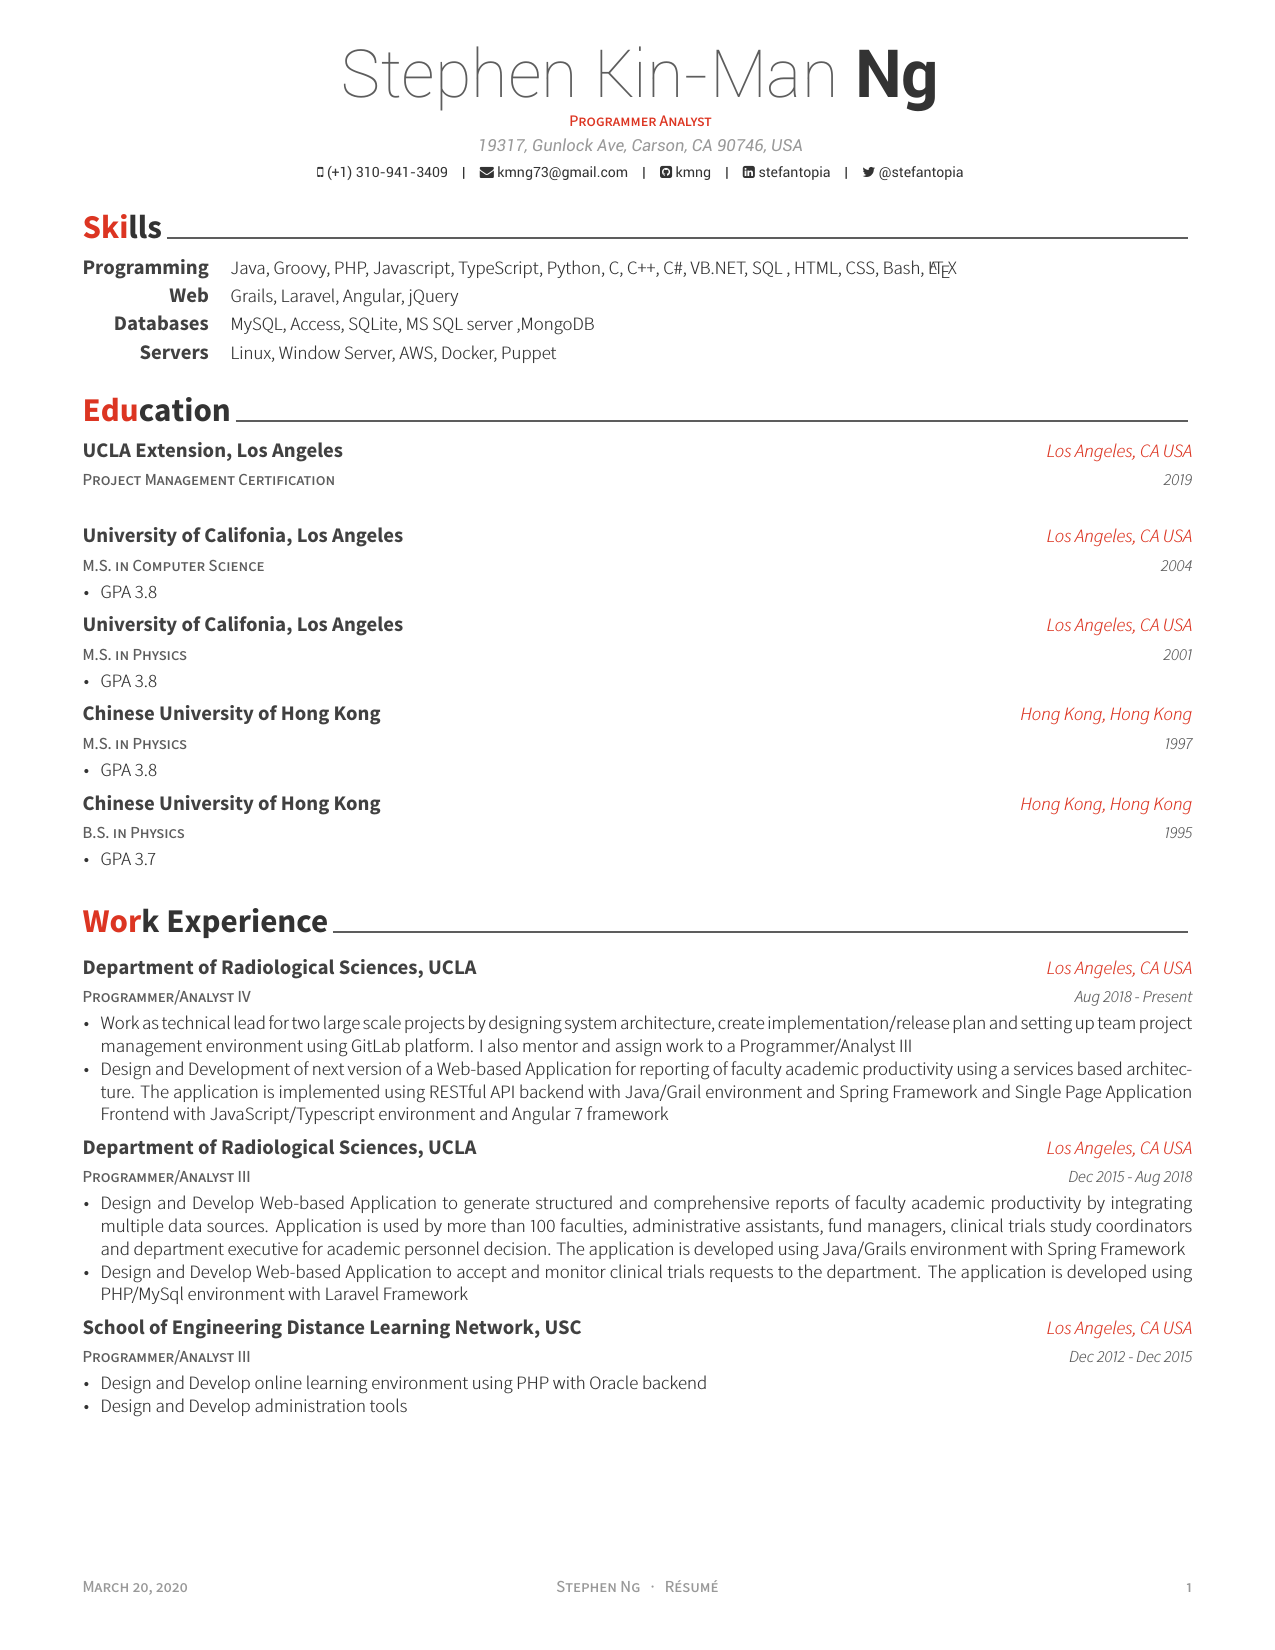
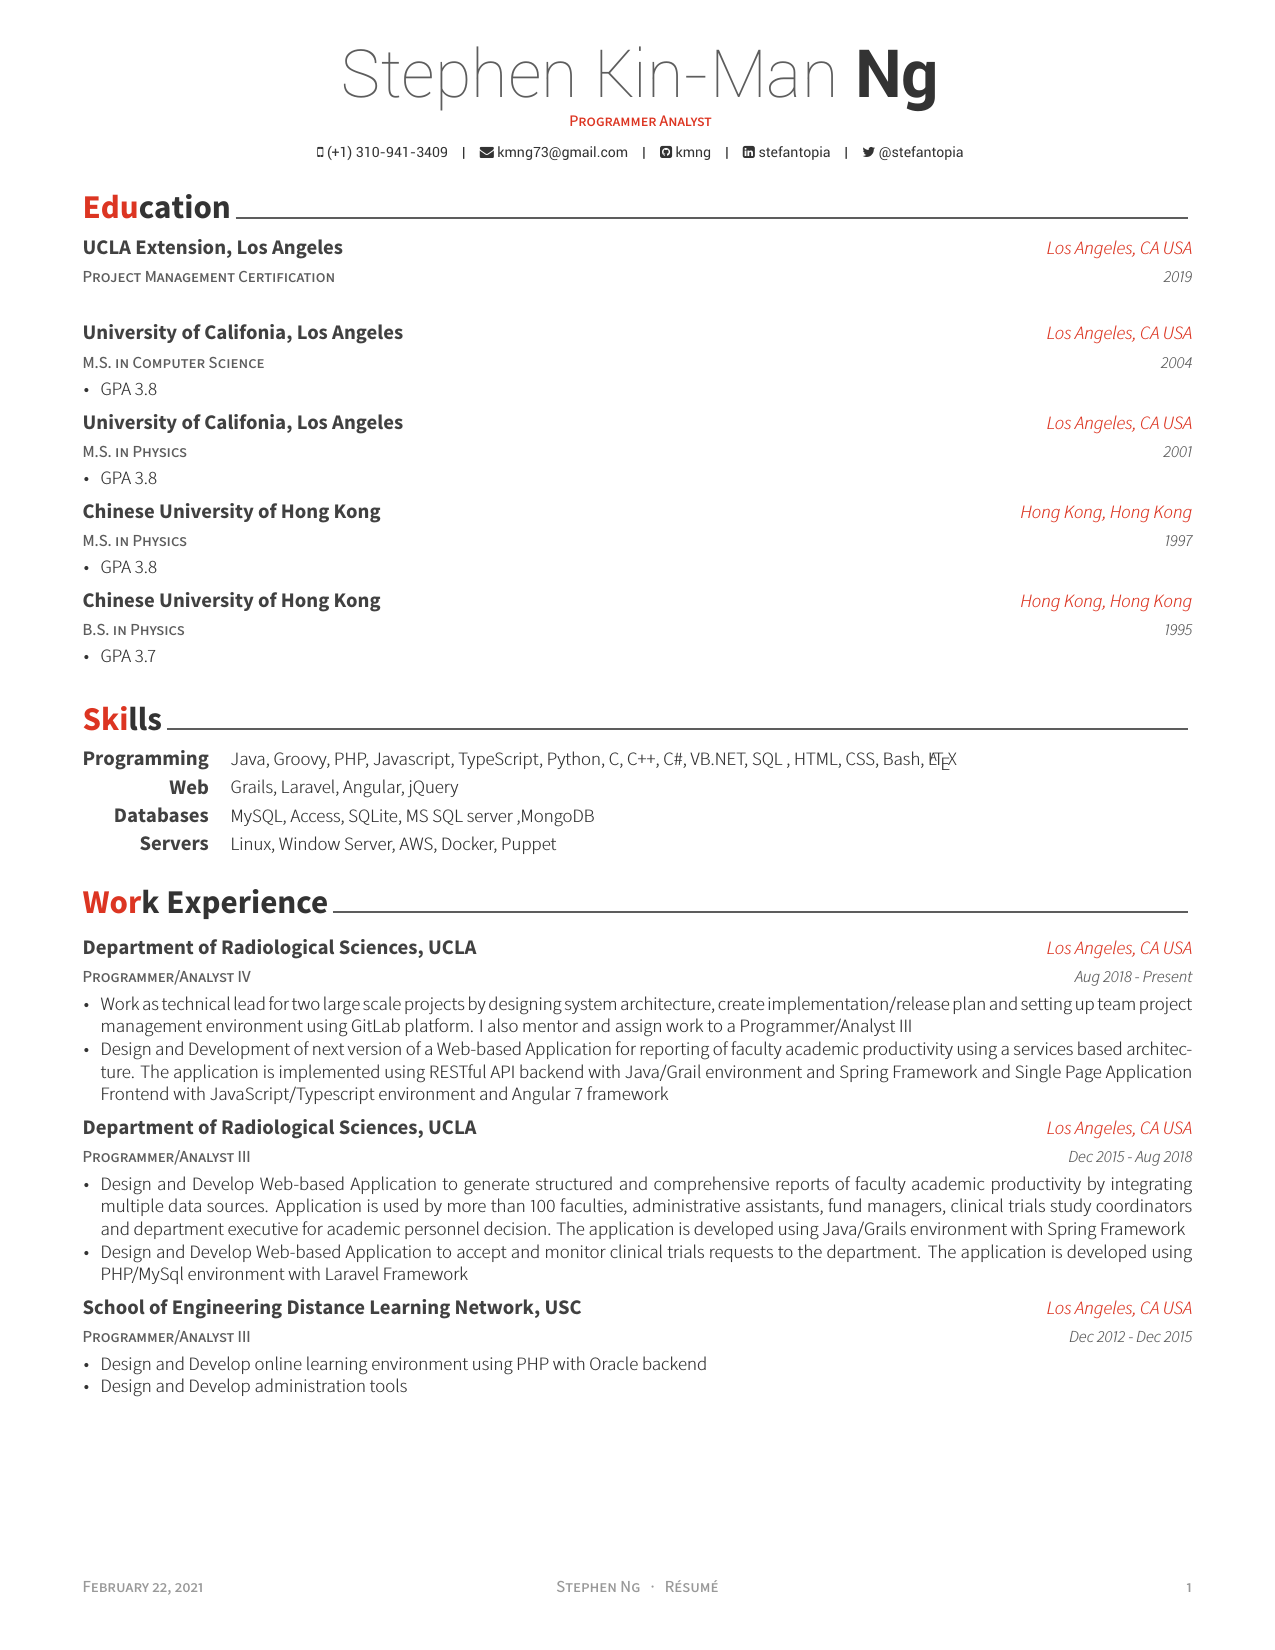
update resume to remove address and switch order

diff --git a/myresume/resume.tex b/myresume/resume.tex
@@ -55,7 +55,7 @@
 % \photo[rectangle,edge,right]{./examples/profile}
 \name{Stephen Kin-Man}{Ng}
 \position{Programmer Analyst}
-\address{19317, Gunlock Ave, Carson, CA 90746, USA}
+% \address{19317, Gunlock Ave, Carson, CA 90746, USA}
 
 \mobile{(+1) 310-941-3409}
 \email{kmng73@gmail.com}
@@ -91,8 +91,9 @@
 %	CV/RESUME CONTENT
 %	Each section is imported separately, open each file in turn to modify content
 %-------------------------------------------------------------------------------
-\input{resume/skill.tex}
 \input{resume/education.tex}
+\input{resume/skill.tex}
+% \input{resume/education.tex}
 \input{resume/experience.tex}
 %\input{resume/honors.tex}
 %\input{resume/presentation.tex}
